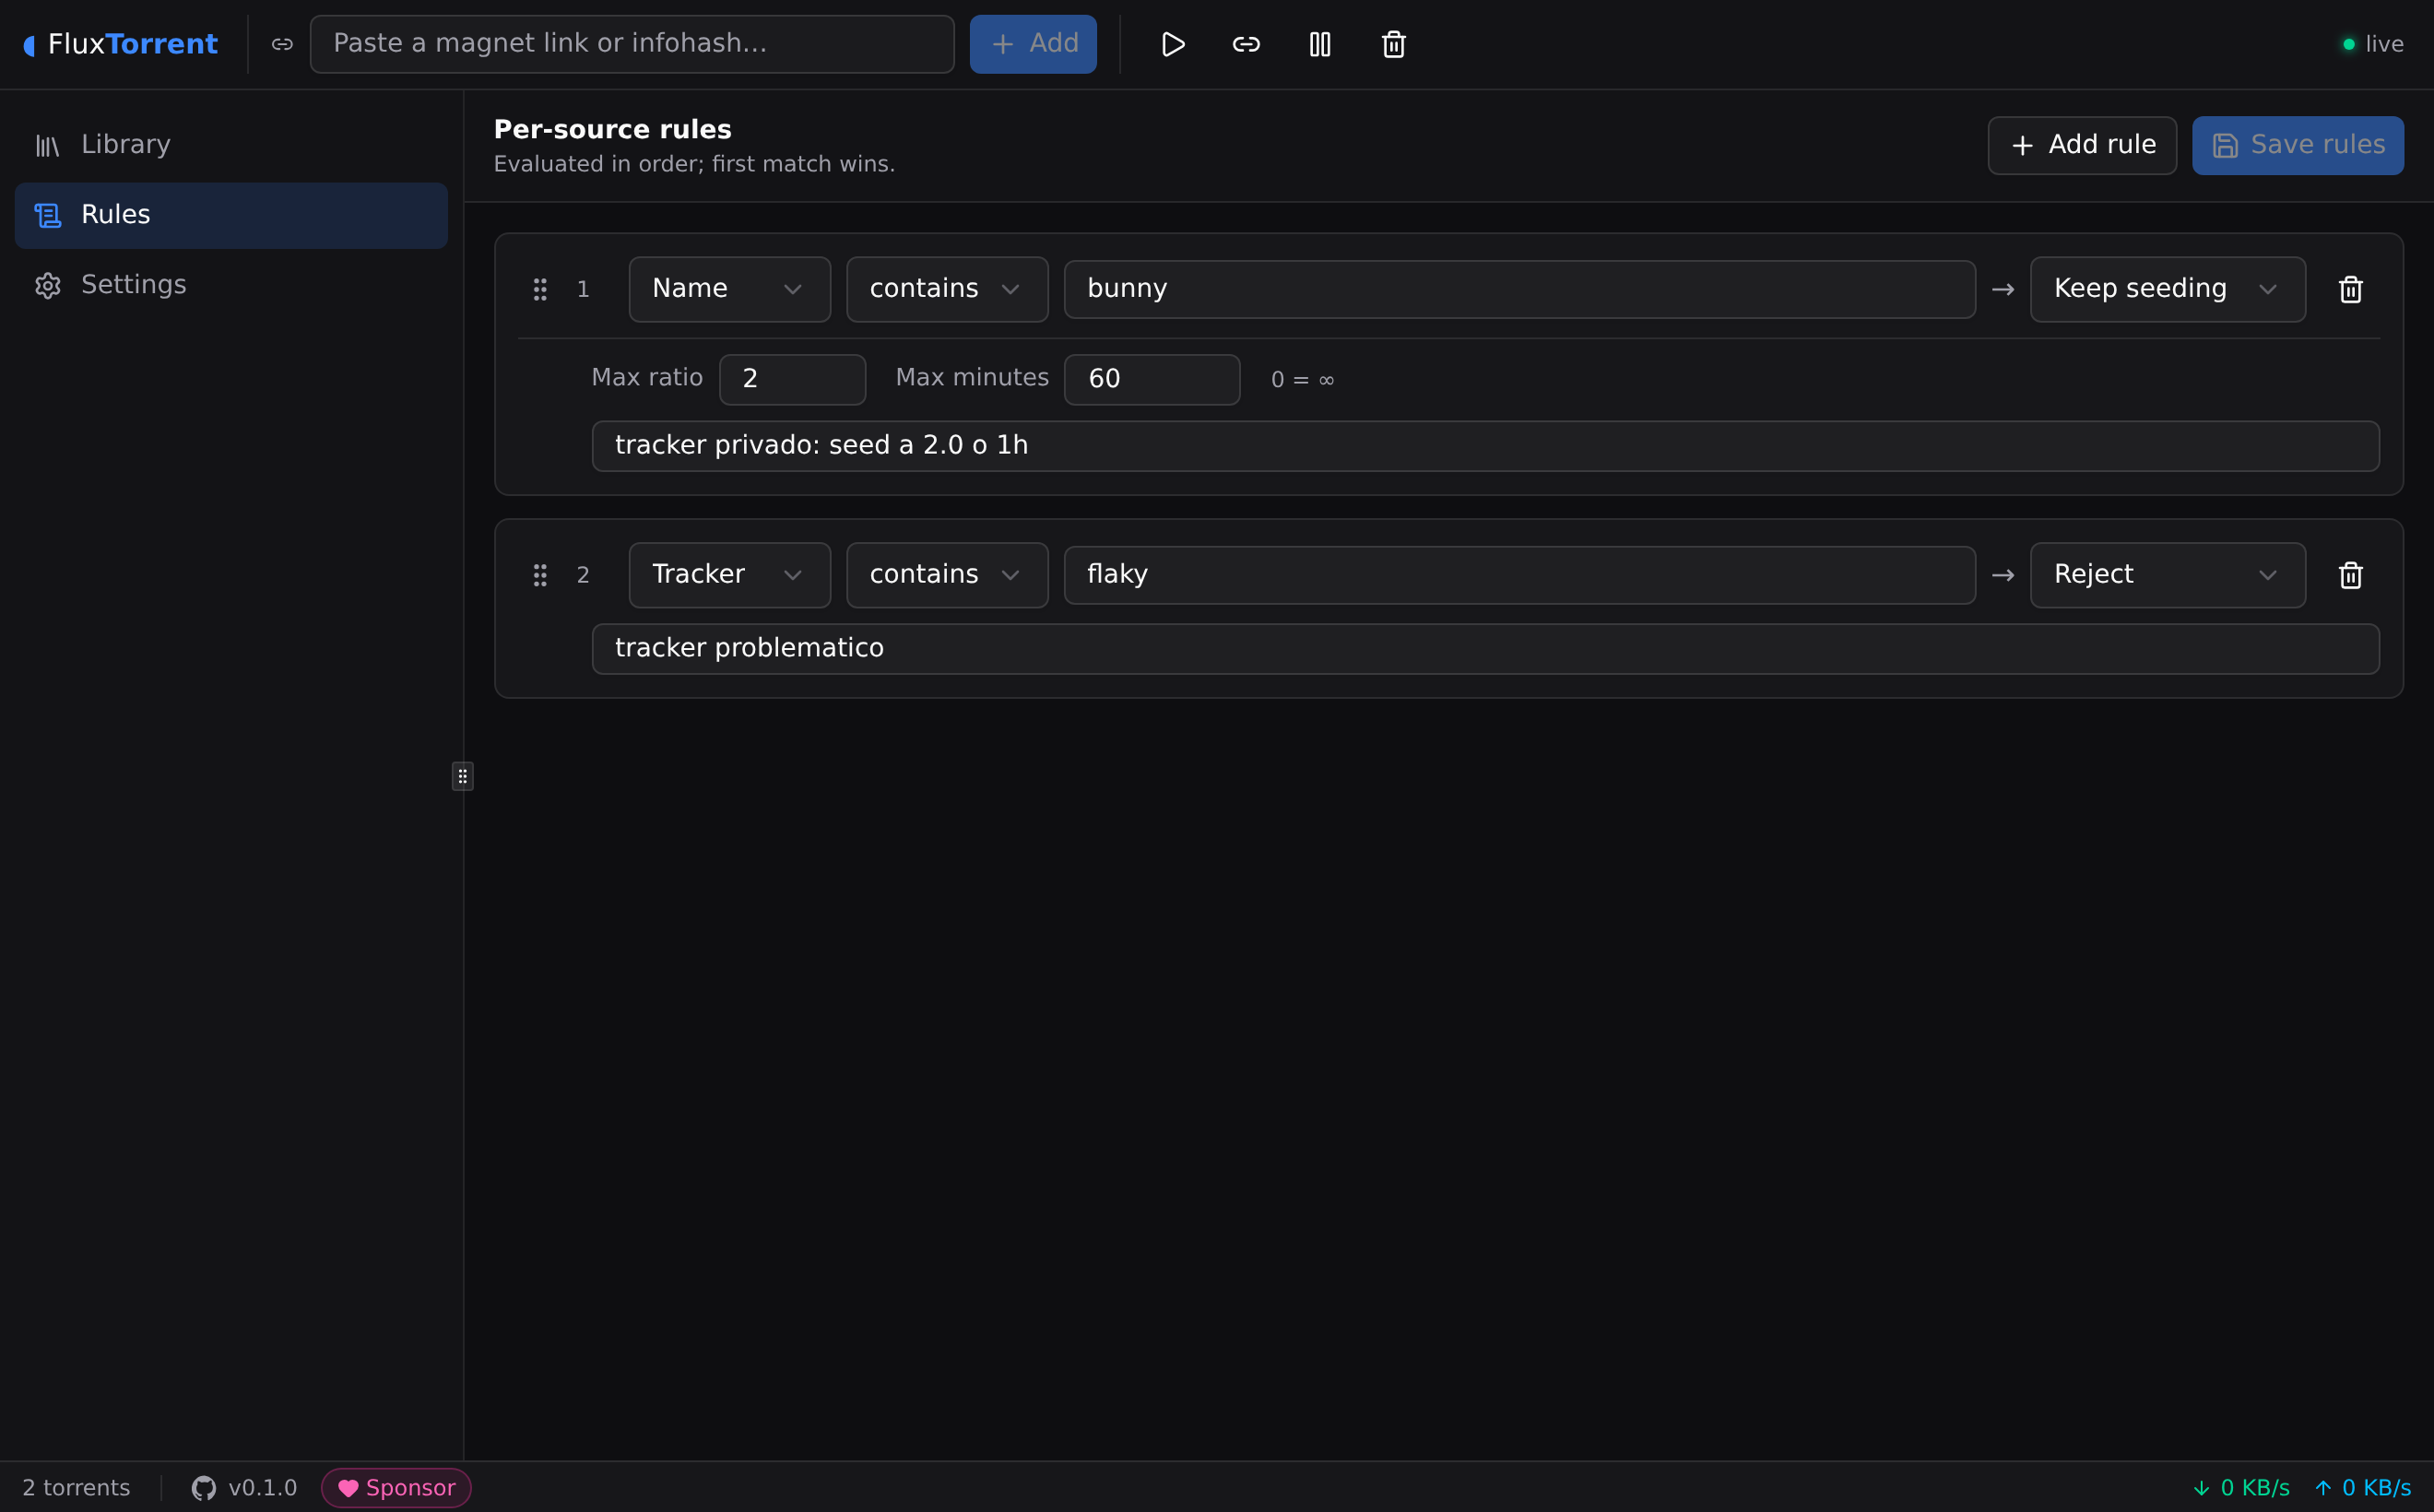
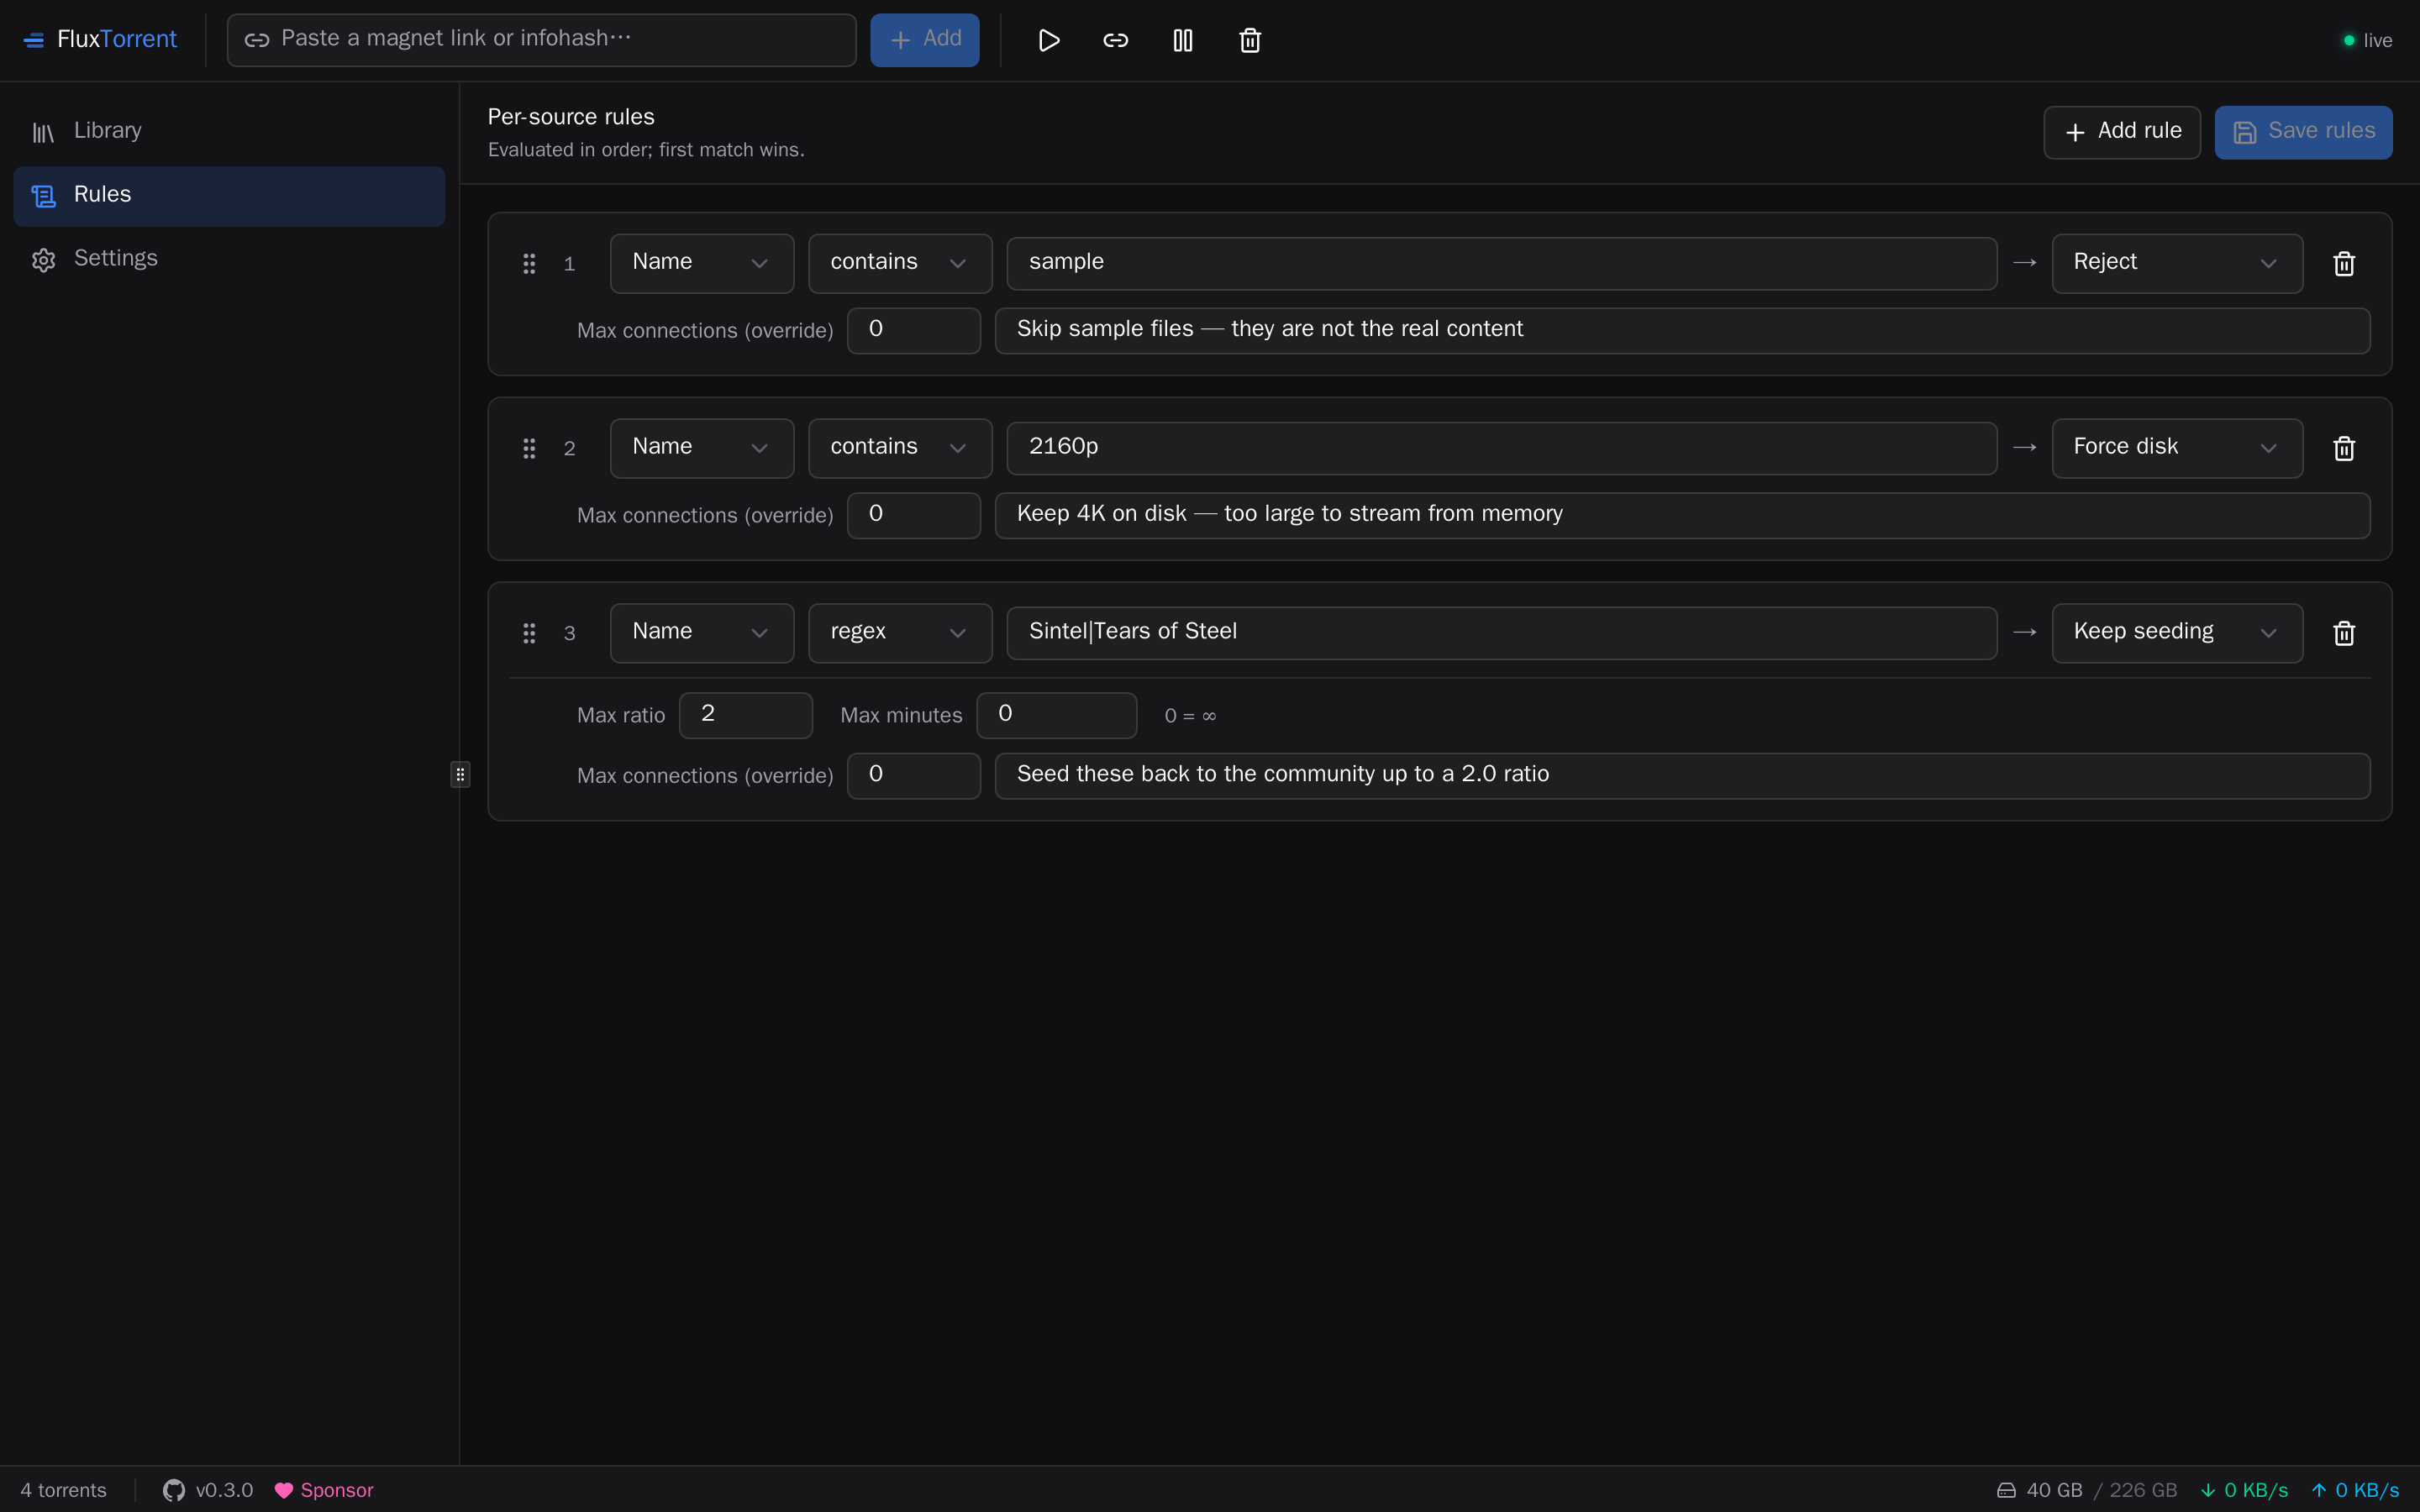
docs: refresh screenshots/demo GIF (legal CC content, English UI)
- Regenerate library/rules/settings shots against the current v0.3.0 UI.
- Use Creative-Commons films (Blender open movies) for the demo library;
  no copyrighted content in promotional assets.
- Add a hero demo GIF (feature tour) and new detail, trackers and mobile
  screenshots; expand the README gallery.
- Show a realistic mix of Streaming and Sharing torrents and three example
  per-source rules.

diff --git a/README.md b/README.md
@@ -13,7 +13,9 @@ APIs your clients already speak** (TorrServer, Stremio, torrent2http).
 [![Docker](https://img.shields.io/badge/Docker-ready-2496ED?logo=docker)](#-quick-start-docker-recommended)
 [![Sponsor](https://img.shields.io/badge/Sponsor-❤-ec4899)](https://github.com/sponsors/jodacame)
 
-![FluxTorrent UI](docs/screenshots/library.png)
+![FluxTorrent — quick tour](docs/screenshots/demo.gif)
+
+<sub>Demo library uses Creative-Commons films (Blender open movies).</sub>
 
 </div>
 
@@ -95,8 +97,12 @@ It's all configurable (or off) in **Settings → Private trackers**.
 
 |  |  |
 |---|---|
-| ![Rules](docs/screenshots/rules.png) | ![Settings](docs/screenshots/settings.png) |
+| ![Library](docs/screenshots/library.png) | ![Torrent details](docs/screenshots/detail.png) |
+| **Library** — streaming vs sharing at a glance | **Detail tabs** — files, sources, trackers, players |
+| ![Per-source rules editor](docs/screenshots/rules.png) | ![Settings](docs/screenshots/settings.png) |
 | **Per-source rules editor** | **Approachable settings** |
+| ![Trackers](docs/screenshots/trackers.png) | ![Responsive on mobile](docs/screenshots/mobile.png) |
+| **Trackers in use** (passkeys redacted) | **Responsive** — works on phones too |
 
 ## How it compares
 